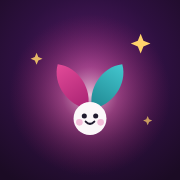
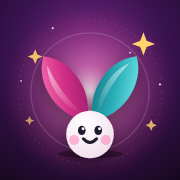
Ícono nuevo con más brillo y volumen
Claude-Session: https://claude.ai/code/session_01GWn33WEzikMLtTVB8Ci92h

diff --git a/sw.js b/sw.js
@@ -1,4 +1,4 @@
-const C='vivia-vuela-v1';
+const C='vivia-vuela-v2';
 self.addEventListener('install',e=>{e.waitUntil(caches.open(C).then(c=>c.addAll(['./','index.html','icon-192.png'])).then(()=>self.skipWaiting()));});
 self.addEventListener('activate',e=>{e.waitUntil(caches.keys().then(k=>Promise.all(k.filter(x=>x!==C).map(x=>caches.delete(x)))).then(()=>self.clients.claim()));});
 self.addEventListener('fetch',e=>{ if(e.request.method!=='GET') return;
